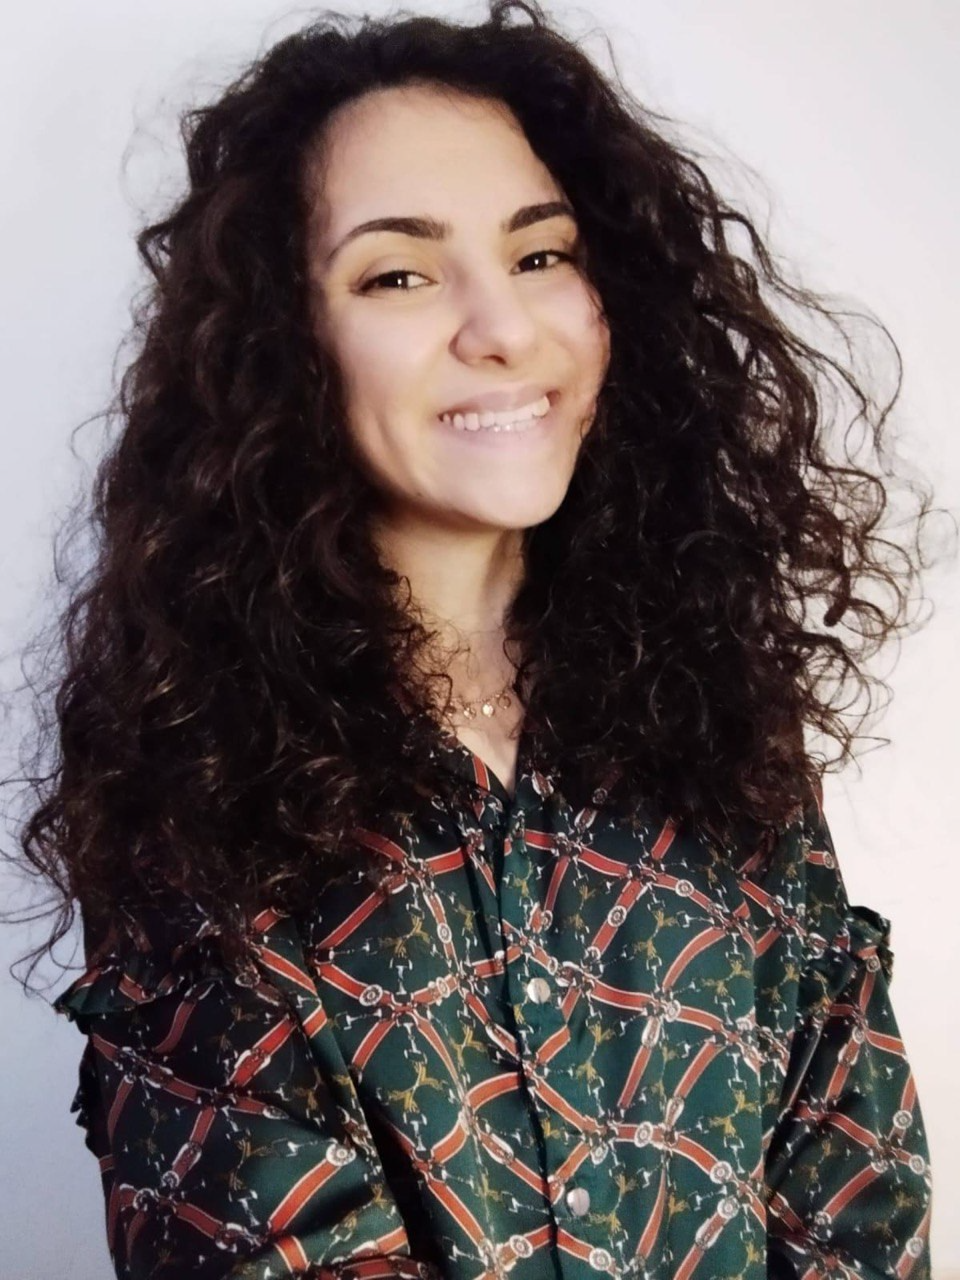
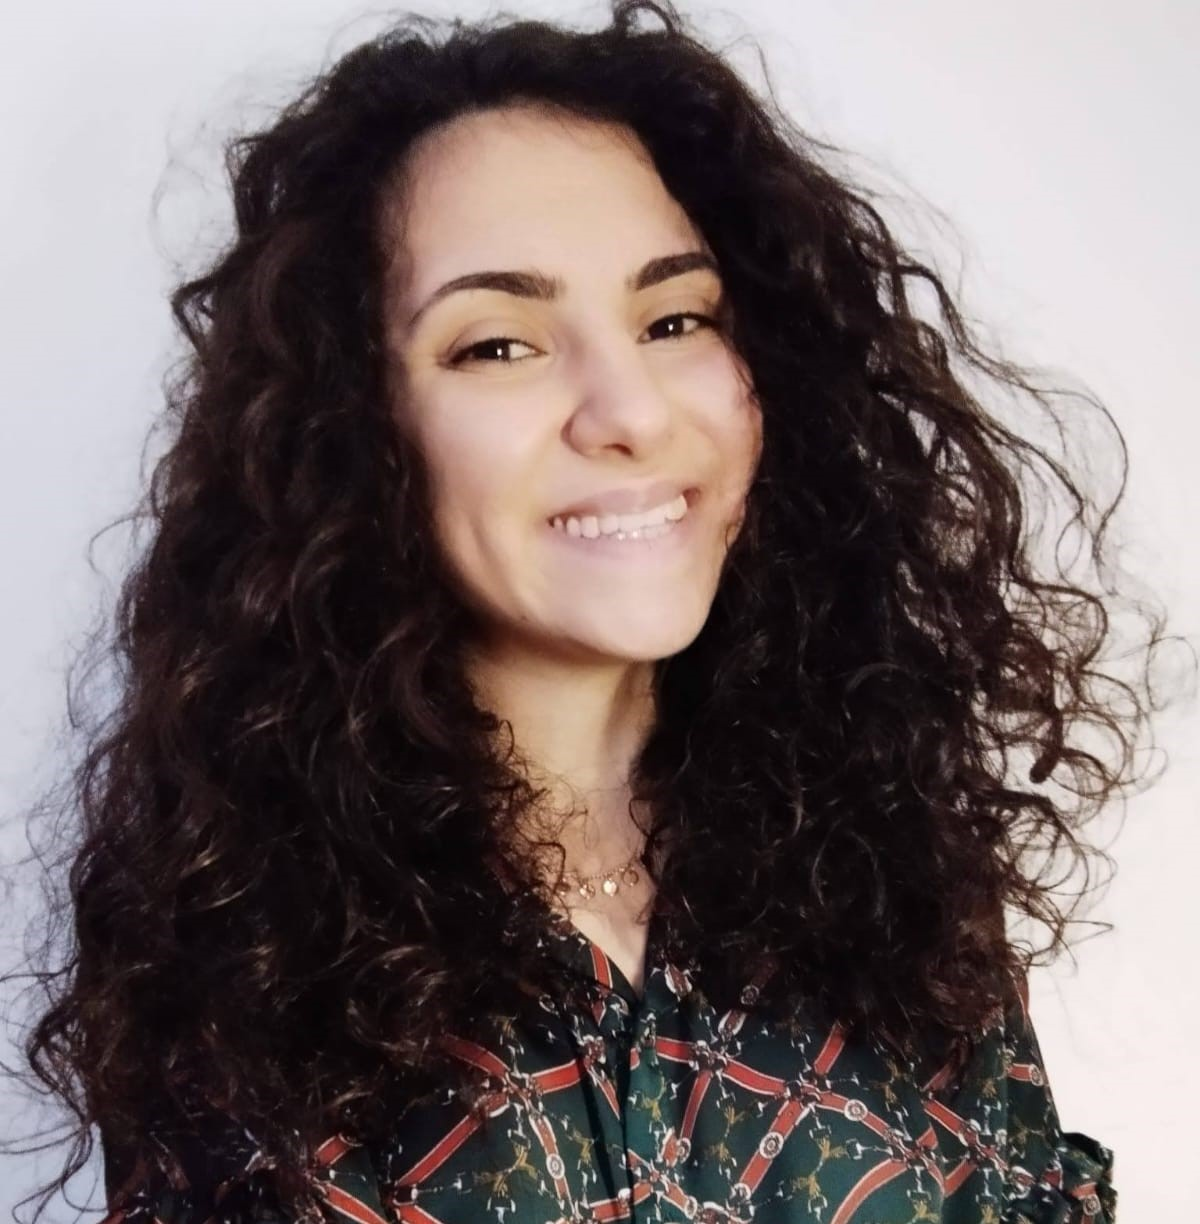
change img and fix header

diff --git a/_includes/services.html b/_includes/services.html
@@ -10,32 +10,36 @@
             <div class="row text-center">
                 <div class="col-md-4">
                     <span class="fa-stack fa-4x">
-                        <i class="fa fa-circle fa-stack-2x text-primary"></i>
-                        <i class="fa fa-shopping-cart fa-stack-1x fa-inverse"></i>
+                        <img class="img-circle img-responsive" src="img/services/1.jpg" alt="">
                     </span>
                     <h4 class="service-heading">Interventi educativi</h4>
-                    <p class="text-muted">Interventi cognitivo comportamentali (ABA), naturalistici evolutivi-comportamentali (ESDM), utilizzo Comunicazione Aumentativa e Alternativa (CAA)</p>
+                    <p class="text-muted">Interventi cognitivo comportamentali (ABA)<br> 
+                        naturalistici evolutivi-comportamentali (ESDM)<br> 
+                        utilizzo Comunicazione Aumentativa e Alternativa</p>
                 </div>
                 <div class="col-md-4">
                     <span class="fa-stack fa-4x">
-                        <i class="fa fa-circle fa-stack-2x text-primary"></i>
-                        <i class="fa fa-laptop fa-stack-1x fa-inverse"></i>
+                        <img class="img-circle img-responsive" src="img/services/2.jpg" alt="">
                     </span>
                     <h4 class="service-heading">Interventi logopedici</h4>
-                    <p class="text-muted">chiedere a elisa bla bla bla ----------------------------------------------------------</p>
+                    <p class="text-muted">Disturbi di linguaggio<br>
+                        Disturbi della fluenza verbale (balbuzie)<br>
+                        Disturbo dello spettro autistico<br> 
+                        Disturbi dell'apprendimento<br> 
+                        Utilizzo di CAA</p>
                 </div>
                 <div class="col-md-4">
                     <span class="fa-stack fa-4x">
-                        <i class="fa fa-circle fa-stack-2x text-primary"></i>
-                        <i class="fa fa-lock fa-stack-1x fa-inverse"></i>
+                        <img class="img-circle img-responsive" src="img/services/3.jpg" alt="">
                     </span>
                     <h4 class="service-heading">Parent training</h4>
-                    <p class="text-muted">AGGIUNGERE DESCRIZIONE ------------------------------------------------------------</p>
+                    <p class="text-muted"> Incontri individuali o di gruppo per supportare i genitori <br>
+                        a prevenire e gestire i comportamenti problema dei loro 
+                        <br>figli con autismo</p>
                 </div>
                 <div class="col-md-4">
                     <span class="fa-stack fa-4x">
-                        <i class="fa fa-circle fa-stack-2x text-primary"></i>
-                        <i class="fa fa-lock fa-stack-1x fa-inverse"></i>
+                        <img class="img-circle img-responsive" src="img/services/4.jpg" alt="">
                     </span>
                     <h4 class="service-heading">Consulenze ostetriche</h4>
                     <p class="text-muted">Valutazione gestione allattamento, valutazione crescita del bambino, analisi della gestione in bambini che crescono e/o di basso peso, risoluzione dei problemi di un'allattamento difficile</p>

diff --git a/_includes/contact.html b/_includes/contact.html
@@ -2,8 +2,8 @@
         <div class="container">
             <div class="row">
                 <div class="col-lg-12 text-center">
-                    <h2 class="section-heading">Contact Us</h2>
-                    <h3 class="section-subheading text-muted">Lorem ipsum dolor sit amet consectetur.</h3>
+                    <h2 class="section-heading">Contattaci</h2>
+                    <!---<h3 class="section-subheading text-muted">Lorem ipsum dolor sit amet consectetur.</h3>--->
                 </div>
             </div>
             <div class="row">
@@ -33,7 +33,7 @@
                             <div class="clearfix"></div>
                             <div class="col-lg-12 text-center">
                                 <div id="success"></div>
-                                <button type="submit" class="btn btn-xl">Send Message</button>
+                                <button type="submit" class="btn btn-xl">Invia </button>
                             </div>
                         </div>
                     </form>

diff --git a/_includes/portfolio_grid.html b/_includes/portfolio_grid.html
@@ -3,8 +3,8 @@
         <div class="container">
             <div class="row">
                 <div class="col-lg-12 text-center">
-                    <h2 class="section-heading">Portfolio</h2>
-                    <h3 class="section-subheading text-muted">Lorem ipsum dolor sit amet consectetur.</h3>
+                    <h2 class="section-heading">Il centro</h2>
+                    <h3 class="section-subheading text-muted">Spazio Indaco è attrezzato con stanze dedicate all'esecuzione di diverse terapie e trattamenti. Il Centro dispone di uno specchio unidirezionale e di un sistema di videoregistrazione. Questi dispositivi sono fondamentali per garantire la massima tutela dei nostri utenti, con particolare attenzione ai bambini. Inoltre, Spazio Indaco si occupa anche di adulti, con un'attenzione speciale per le donne nel periodo pre e post gravidanza, offrendo supporto e accompagnamento specifici per questa delicata fase della vita.</h3>
                 </div>
             </div>
             <div class="row">

diff --git a/_includes/css/agency.css b/_includes/css/agency.css
@@ -269,8 +269,8 @@ header {
     text-align: center;
     color: #fff;
     background-attachment: scroll;
-    background-image: url('{{ site.baseurl }}/img/header-bg.jpg');
-    background-position: center center;
+    background-image: url('{{ site.baseurl }}/img/header-bg.svg');
+    background-position: center top;
     background-repeat: none;
     -webkit-background-size: cover;
     -moz-background-size: cover;

diff --git a/_includes/team.html b/_includes/team.html
@@ -3,7 +3,7 @@
         <div class="container">
             <div class="row">
                 <div class="col-lg-12 text-center">
-                    <h2 class="section-heading">Team</h2>
+                    <h2 class="section-heading">Chi siamo</h2>
                     <h3 class="section-subheading text-muted">La nostra equipe</h3>
                 </div>
             </div>

diff --git a/js/contact_me.js b/js/contact_me.js
@@ -18,7 +18,7 @@ $(function() {
                 firstName = name.split(' ').slice(0, -1).join(' ');
             }
             $.ajax({
-                url: "././mail/contact_me.php",
+                url: "//formspree.io/spazioindaco.cfe@gmail.com",
                 type: "POST",
                 data: {
                     name: name,

diff --git a/mail/contact_me.php b/mail/contact_me.php
@@ -16,7 +16,7 @@ $phone = $_POST['phone'];
 $message = $_POST['message'];
 
 // Create the email and send the message
-$to = 'jerome.lachaud@gmail.com'; // Add your email address inbetween the '' replacing yourname@yourdomain.com - This is where the form will send a message to.
+$to = 'info@spazioindacocfe.com'; // Add your email address inbetween the '' replacing yourname@yourdomain.com - This is where the form will send a message to.
 $email_subject = "Website Contact Form:  $name";
 $email_body = "You have received a new message from your website contact form.\n\n"."Here are the details:\n\nName: $name\n\nEmail: $email_address\n\nPhone: $phone\n\nMessage:\n$message";
 $headers = "From: noreply@yourdomain.com\n"; // This is the email address the generated message will be from. We recommend using something like noreply@yourdomain.com.
